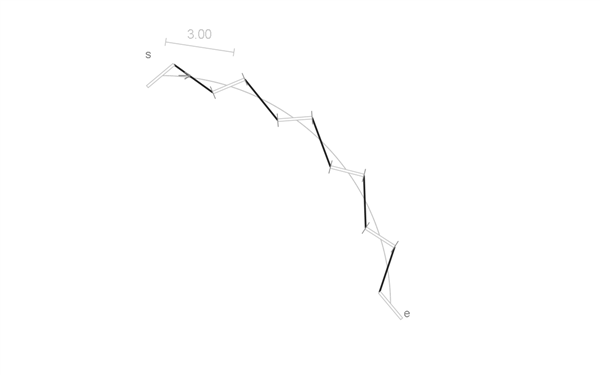
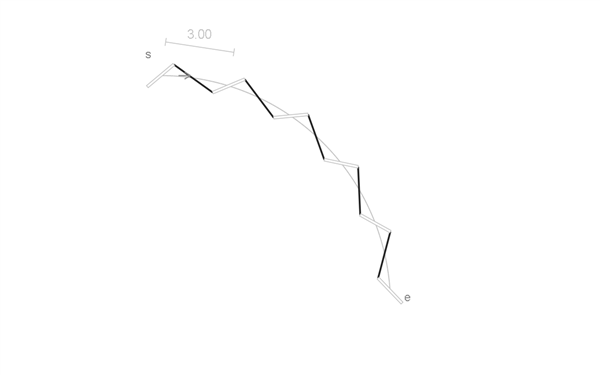
Isolate nominal geometry in slit and corner axiom illustrations

diff --git a/examples/illustrated/README.md b/examples/illustrated/README.md
@@ -70,7 +70,7 @@ node --input-type=module -e "import {createScenes,pitchComparisonMetrics} from '
 
 ### Follow the guide; keep the slit profile: A1-A3
 
-A slit follows the local tangent without changing length or lean. Pitch is a direct chord between centres, not distance along the curve. `A01`.
+A slit follows the labelled local tangent without changing length or lean. The guide ends after five nominal $3\,\mathrm{mm}$ chords at radius $10\,\mathrm{mm}$; no adjusted gaps. Pitch is the direct chord between centres. `ILL-CURVE`, using the arc geometry from `A01`.
 
 ![Slit orientation follows the curve; pitch is a chord](assets/axiom-curve.gif)
 
@@ -82,7 +82,7 @@ Five slits on each side of the central landmark. Each free span has two central 
 
 ### Construct the corner hole: A6
 
-Stitch towards the corner along one arm, ending at its dashed virtual slit. Approach from the other arm the same way. The two terminal virtual tips meet at one round hole. The `s`, `e` and `j` labels remain visible throughout. `J02`.
+Stitch towards the corner along one arm, ending at its dashed virtual slit. Approach from the other arm the same way. The two terminal virtual tips meet at one round hole. The `s`, `e` and `j` labels remain visible throughout. `J02`. Guide extents end at the outermost slits; all three steps on each arm are nominal.
 
 ![Each arm approaches its terminal virtual slit before their shared corner hole is identified](assets/axiom-corner.gif)
 

diff --git a/docs/PITCH_skeleton.md b/docs/PITCH_skeleton.md
@@ -172,11 +172,6 @@ Research note: Anthony to find stitching examples from:
 
 ![A6: the selected tips meet between two curved arms](../examples/illustrated/assets/corner-arc-arc.gif)
 
-- A shallow turn can require an adjusted corner step: approximately $3.21\,\mathrm{mm}$ here
-- Usable angles depend on pitch, slit geometry, hole diameter, clearance and available arm geometry
-
-![A6: bounded corner adjustment brings a shallow curved neighbour onto its finite guide](../examples/illustrated/assets/corner-shallow.gif)
-
 ## Branching junctions
 
 - A through-line contributes two arms; a T has three and an X four
@@ -212,6 +207,10 @@ Research note: Anthony to find stitching examples from:
 - Use equal spacing within one adjustment block per free span
 - Place the block as centrally as protected gaps allow; half-index ties go toward the end
 - On circles, convert chord spacing to angular advance
+- A shallow turn can require an adjusted corner step: approximately $3.21\,\mathrm{mm}$ here
+- Usable angles depend on pitch, slit geometry, hole diameter, clearance and available arm geometry
+
+![A6: bounded corner adjustment brings a shallow curved neighbour onto its finite guide](../examples/illustrated/assets/corner-shallow.gif)
 
 ## Reject impossible fits
 
